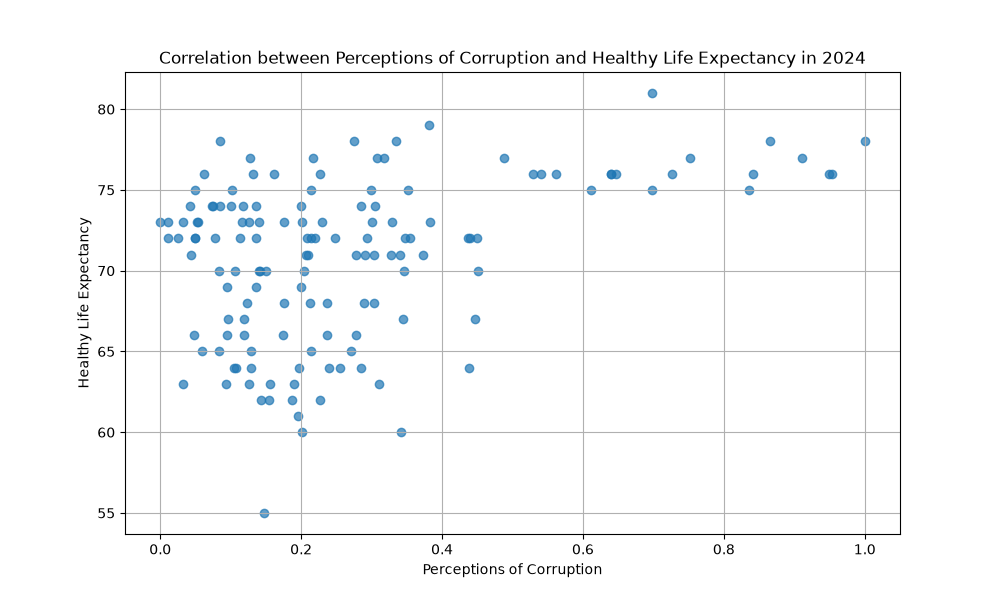
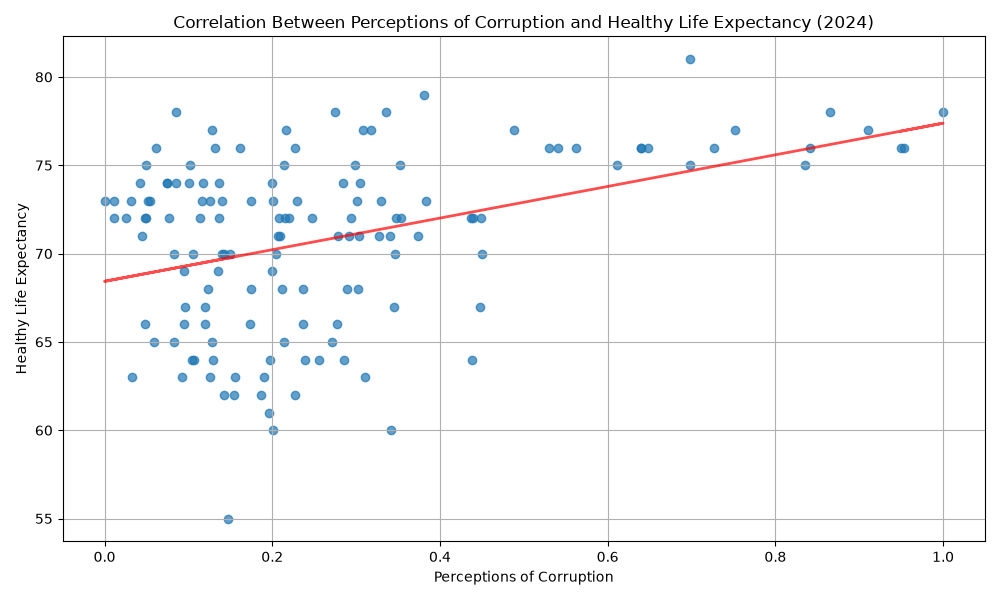
Resubmission 5

diff --git a/assignments_07/project_07.py b/assignments_07/project_07.py
@@ -79,7 +79,7 @@ def summarize_column(column: str) -> dict:
         A dict of basic stats for the column, or an error dict.
     """
 
-    if df == None:
+    if df is None:
         return error_df
     
     if column not in df.columns:
@@ -99,7 +99,7 @@ def compute_correlation(col1: str, col2: str) -> dict:
         A dict containing keys 'col1', 'col2', 'pearson_r', and 'p_value' along with their corresponding values or an error dict.
     """
 
-    if df == None:
+    if df is None:
             return error_df
     
     if col1 not in df.columns:
@@ -131,7 +131,7 @@ def get_top_n_countries(column: str, year: int, n: int = 5) -> dict:
         A list of dictionaries containing keys 'country' and the selected column's name for the top n countries after sort
     """
 
-    if df == None:
+    if df is None:
             return error_df
 
     if not column or not year:
